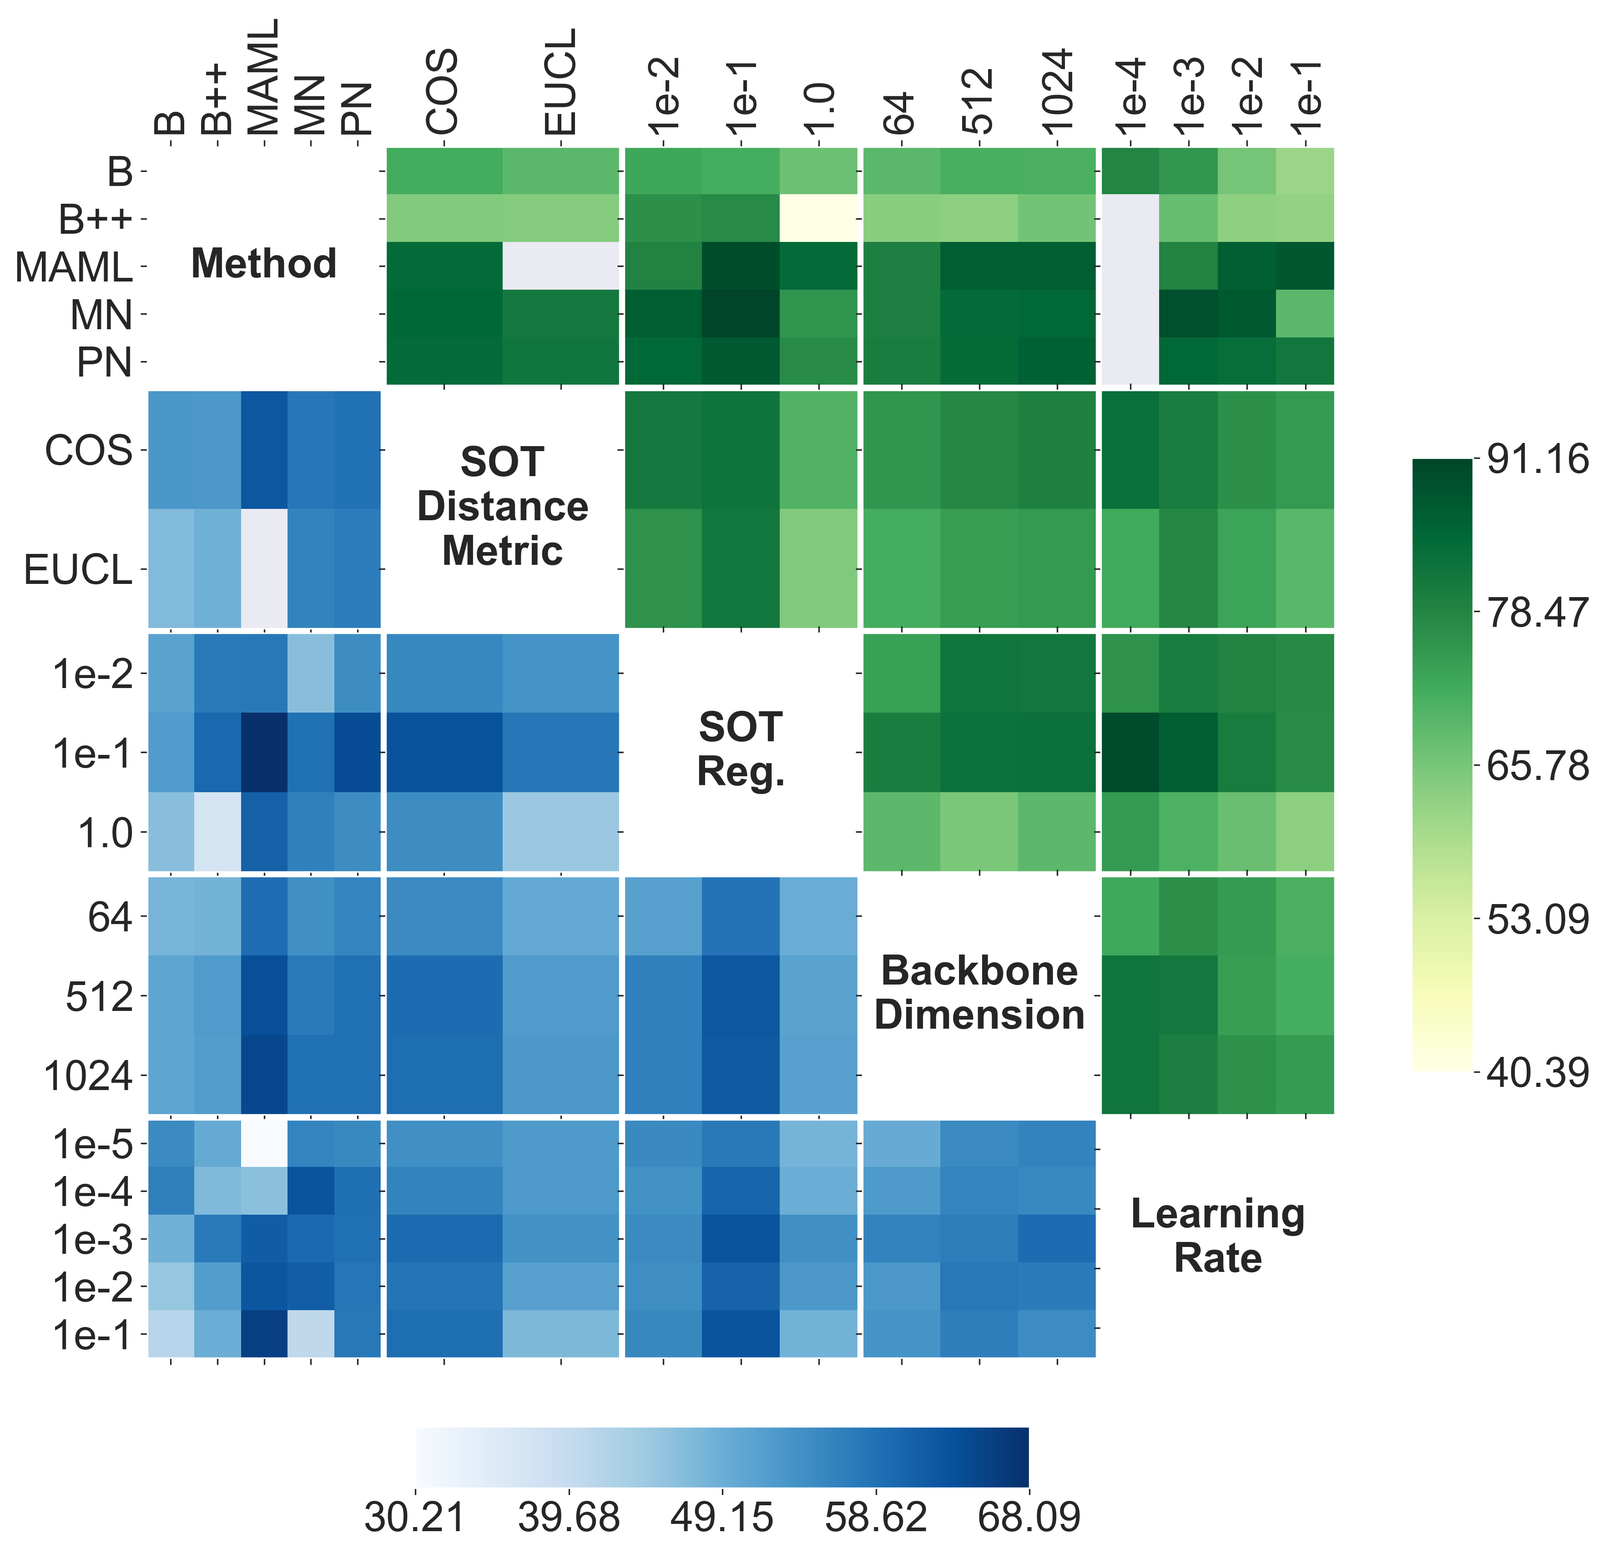
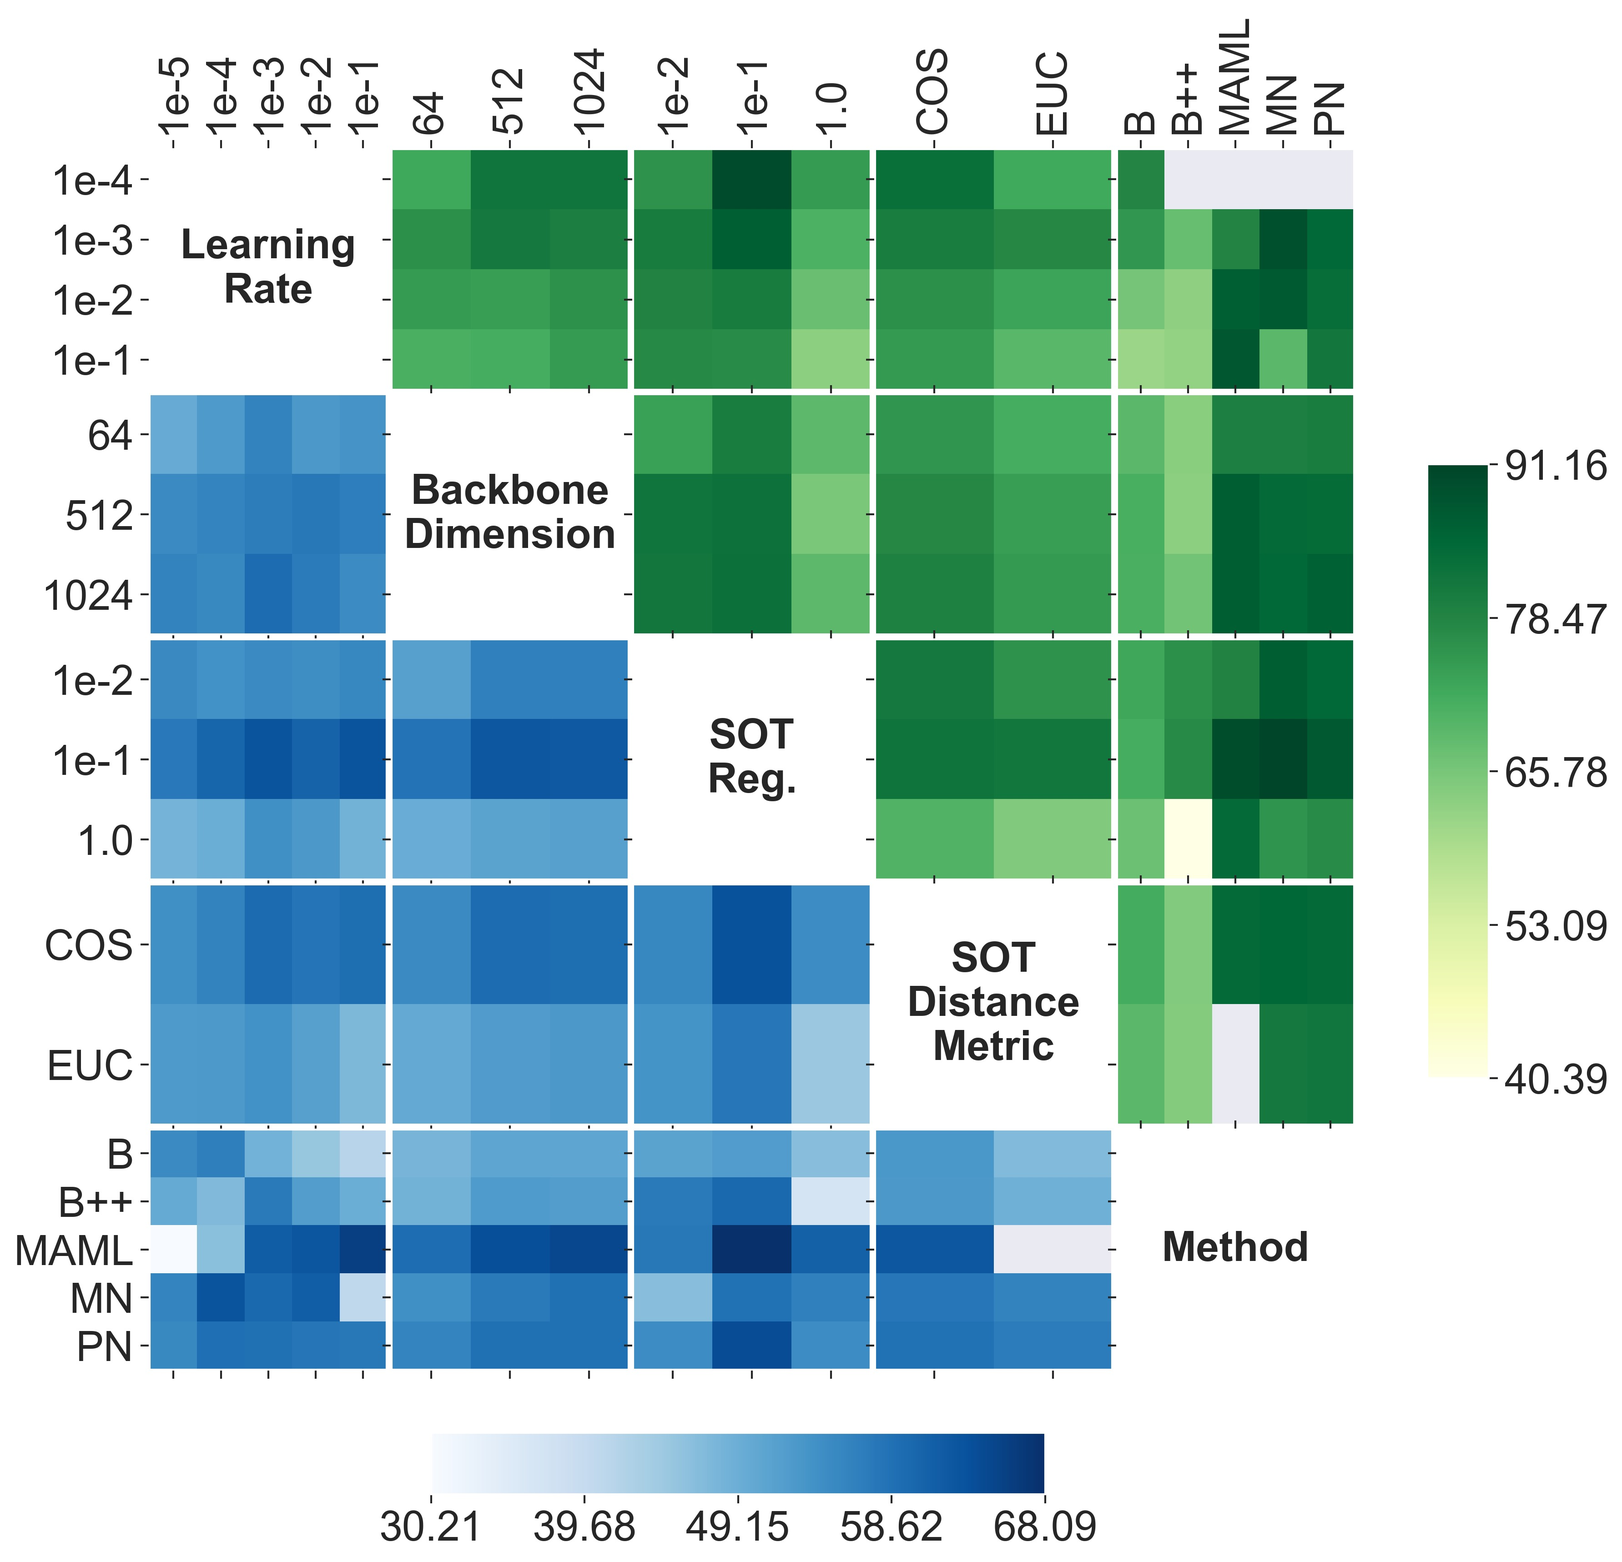
feat(*) final brush over report

diff --git a/report/sections/results.tex b/report/sections/results.tex
@@ -1,37 +1,41 @@
 \section{Results}
 
+\input{tables/tuned-benchmark.tex}
 
 Figure~\ref{fig:benchmark-perf} and Table \ref{tab:tuned-benchmark} shows the test accuracies for each method with and without the SOT module on both datasets.
 
 % Without SOT:
 % TM: (91.3 + 81.7 + 89.8 + 85.3 + 90)/5 = 87.6
 % SP: (69.1 + 55.2 + 61.5 + 65.4 + 64.3)/5 = 63.1
-Models without the SOT module reach an average accuracy of 88\% on the \texttt{TM} dataset and 63\% on the \texttt{SP} dataset. These results generally show that the models are capable of learning from few samples, improving significantly over the random baseline of 20\% accuracy. Peak performances in this group are achieved by \texttt{B} on both datasets, with 91\% and 69\% accuracy, respectively. The results indicate that \texttt{SP} is more challenging than the \texttt{TM} dataset. 
+Models without the SOT module reach an average accuracy of 88\% on the \texttt{TM} dataset and 63\% on the \texttt{SP} dataset. These results generally show that the models are capable of learning from few samples, improving significantly over the random baseline of 20\% accuracy. Peak performances in this group are achieved by \texttt{B} on both datasets, with 91\% and 69\% accuracy, respectively.
 
 % With SOT:
-% TM: (86.4 + 89.8 + 90.9 + 93.5 + 91.6)/5 = 90.4
-% SP: (56.7 + 70.9 + 67.2 + 68.4 + 66.6)/5 = 65.9
-Models incorporating the SOT module exhibit enhanced accuracy, achieving 90\% and 66\% average accuracy on the \texttt{TM} and \texttt{SP} dataset. While \texttt{MN}, \texttt{PN}, \texttt{MAML}, and \texttt{B++} show improved performance on \texttt{SP} when using SOT, \texttt{B} experiences a decline. Notably, \texttt{MN} on \texttt{SP} demonstrates the most significant gain with SOT: from a lowest accuracy of 55\% to the highest at 71\%. The addition of the SOT module increases the peak accuracy by 1.8 percentage points on \texttt{SP} and 2.2 on \texttt{TM}.
+% TM: (91.9 + 89.8 + 90.9 + 93.5 + 91.6)/5 = 90.4
+% SP: (64.7 + 64.5 + 67.2 + 70.0 + 66.6)/5 = 66.6
+Models incorporating the SOT module exhibit enhanced accuracy, achieving 90\% and 67\% average accuracy on the \texttt{TM} and \texttt{SP} dataset. All models benefit from the inclusion of the SOT feature transform module, except for \texttt{B} on \texttt{SP}. 
 
-\textbf{Hyperparameter Ablation.} Figure~\ref{fig:hparams-swissprot-grid} shows the pair-wise interactions between all tuned hyperparameters. We also add a column for the methods to study how they react to certain hyper-parameters. 
-
-The plots indicate a clear trend across all methods regarding the SOT hype-parameters: We find that using $\delta = cosine$ as a distance metric and regularisation with $\gamma = 0.1$ consistently yields the best performance. 
-Furthermore, we find that all methods generally prefer lower learning rates of $\lambda=0.001$, especially in combination with a larger hidden dimension in the layers of the backbone. Finally, the plot reveals that \texttt{MN}, \texttt{PN}, and \texttt{MAML} are more robust to the choice of hyperparameters, yielding higher mean accuracies across tuning runs, while  \texttt{B++} was found especially sensitive. Despite being the best performing method on \texttt{SP}, its mean accuracy is lower in the tuning runs.
+Notably, \texttt{MN} on \texttt{SP} demonstrates the most significant gain with SOT: from a lowest accuracy of 55\% to the highest at 70\%. The addition of the SOT module increases the peak accuracy by 0.9 percentage points on \texttt{SP} and 2.2 on \texttt{TM}.
 
 \begin{figure}[h!]
     \centering
-    \includegraphics[width=1\columnwidth]{figures/hparams-interaction.png}
-    \caption{\textbf{Hyperparameter Ablation.} Test accuracies on the \texttt{SP} dataset for all pairs of hyperparameter settings.}
+    \includegraphics[width=1\columnwidth]{figures/hparams-interaction-combined.png}
+    \caption{\textbf{Hyperparameter Ablation.} Average test accuracies on the \texttt{SP} dataset for all pairs of hyperparameter settings for \texttt{SP} in blue (bottom left) and \texttt{TM} in green (top right).}
     \label{fig:hparams-swissprot-grid}
 \end{figure}
 
-\input{tables/tuned-benchmark.tex}
+\textbf{Hyperparameter Ablation.} Figure~\ref{fig:hparams-swissprot-grid} shows the pair-wise interactions between all tuned hyperparameters for both datasets separately. We add a column for the methods to study how they react to certain hyperparameters configurations. 
 
-\textbf{Way-Shot Analysis.} Figure~\ref{fig:way-shot} illustrates \texttt{PN}'s way-shot analysis on the TM dataset, comparing scenarios with and without the SOT module. The left subplot depicts test accuracy versus the number of classes (ways), while the right subplot relates accuracy to the number of samples per class (shots). In both SOT and non-SOT contexts, a consistent trend emerges: accuracy diminishes linearly with more classes and grows with additional samples per class up to some limit. Notably, exceeding five samples per class yields no substantial accuracy gains. The model's performance with the SOT module is consistently inferior for higher numbers of classes and samples.
+The plots indicate a clear trend across all methods and datasets regarding the SOT hyperparameters: We find that using the cosine distance metric and regularisation with $\gamma = 0.1$ consistently yields the best performance. 
+Furthermore, we find that the choice of the learning rate has a significant impact on the performance of all methods. \texttt{B}, \texttt{B++} and \texttt{MN} generally prefer lower learning rates of $\lambda=1e^{-4}$, while \texttt{MAML} prefers high learning rates of $\lambda=1e^{-1}$. \texttt{PN}'s performance is robust to the choice of learning rate showing no significant variation across tuning runs.
+Finally, the plot reveals that \texttt{MN}, \texttt{PN}, and \texttt{MAML} are generally more robust to the choice of hyperparameters, yielding higher mean accuracies across tuning runs, while  \texttt{B++} was found especially sensitive. Despite being the best performing method on \texttt{SP}, its mean accuracy is lower in the tuning runs.
+
+
+
+\textbf{Way-Shot Analysis.} Figure~\ref{fig:way-shot} illustrates \texttt{PN}'s way-shot analysis on the TM dataset, comparing scenarios with and without the SOT module. The left subplot depicts test accuracy versus the number of classes (ways), while the right subplot relates accuracy to the number of samples per class (shots). In both SOT and non-SOT contexts, a consistent trend emerges: accuracy diminishes linearly with more classes and grows with additional samples per class up to some limit. Notably, exceeding ten samples per class yields no substantial accuracy gains. As expected, the model's performance with the SOT module is consistently higher for higher numbers of classes and samples.
 
 \begin{figure}[h!]
     \centering
-    \includegraphics[width=1\columnwidth]{figures/way-shot.pdf}
+    \includegraphics[width=1\columnwidth]{figures/way-shot.png}
     \caption{\textbf{Way-Shot Analysis.} Test accuracy of \texttt{PN} on the \texttt{TM} dataset with and without the SOT module in various 
     few-shot learning settings for fixed n-way (left) and n-shot (right). Individual points represent a single experiment. We show the regression line with a 95\% confidence interval.}
     \label{fig:way-shot}

diff --git a/report/sections/discussion.tex b/report/sections/discussion.tex
@@ -1,16 +1,10 @@
 \section{Discussion}
 
 % General Benchmark
-The collective analysis of average performance across both datasets underscores the competence of all methods in extracting knowledge from biomedical datasets with limited number of samples per class. Notably, the \texttt{TM} dataset seems to be more amenable to few-shot learning, with all methods achieving an average accuracy of at least 80\%. In contrast, the \texttt{SP} dataset poses a more challenging task, with all methods averaging below 70\% accuracy. This discrepancy may stem from variations in the quality of extracted embeddings and potential disparities in the the overlap of classes in the training and test sets observed in the \texttt{TM} dataset.
+Our analysis underscores the competence of all methods in extracting knowledge from few-shot biomedical datasets. Notably, the \texttt{TM} dataset seems to be more amenable to few-shot learning, with all methods achieving an average accuracy of at least 80\%. In contrast, the \texttt{SP} dataset poses a more challenging task, with the highest performance achieved being 70\% accuracy. This discrepancy may stem from variations in the quality of the features or the potential disparities in the the overlap of classes in the training and test sets observed in the \texttt{TM} dataset.
 
-Examining the \texttt{SP} dataset, an intriguing pattern emerges: the incorporation of the SOT module enhances the performance of all methods except for \texttt{B}, where performance sees a notable decline of almost 20\%. This stark drop may be attributed to the inherent simplicity of model \texttt{B}, struggling to grapple with the added complexity introduced by the SOT module.  Remarkably, \texttt{B++} experiences a substantial 17\% performance boost with the SOT module, marking the most significant improvement among all methods. This result is surprising given the minimal distinctions between the two methods. Notably, \texttt{B++} normalizes embeddings before the final classification layer, with normalized weights. 
-Additionally, it elevates the temperature of the softmax function, fostering greater confidence in model predictions.
+% Hyperparameter Ablation
+Across almost methods and few-shot settings examined, the SOT module consistently enhances performance. This is in line with the claims and empirical findings of the original paper, making SOT a model-agnostic plug-in module with potential to improve performance in a wide range of few-shot learning tasks with little added computational overhead.
 
-Turning attention to the \texttt{TM} dataset, the impact of the SOT module appears marginal for all methods except \texttt{MT}, 
-where performance sees a modest 5\% increase. Plausible reasoning suggests that, on \texttt{TM}, 
-methods already achieve a high average performance, limiting the potential for substantial enhancement through the SOT module.
-
-% Way-Shot Analysis
-The way-shot analysis demonstrates clear trends: With increasing number of classes to distinguish, performance decreases from approximately 95\% with 2 classes to around 80\% with 10 classes. Notably, the challenge intensifies, widening the confidence interval range. This underscores the increasing importance of support vectors as class count rises.
-
-Examining the second plot of Figure \ref{fig:way-shot}, an intriguing observation emerges:  possessing more than 5 support vectors doesn't necessarily enhance the model's performance.  Importantly, the figure indicates that, across varying class and support vector counts, the \texttt{MN} with SOT module tends to exhibit marginally lower performance on average compared  to its counterpart without the module. 
+% Hyperparameter Ablation
+Our study shows conclusive evidence that the SOT module performs best in few-shot classification tasks for a regularisation parameters $\gamma = 0.1$ and using the cosine distance metric. However, careful tuning of other hyper-parameters, such as the learning rate or the size of the hidden dimension of the backbone network, are crucial to achieve peak performance and vary depending on the method and dataset.

diff --git a/report/sections/abstract.tex b/report/sections/abstract.tex
@@ -1,3 +1,3 @@
 \begin{abstract}
-    Our study rigorously evaluates prominent few-shot learning algorithms, including Baseline, Matching Networks, Prototypical Networks, and MAML, in two few-shot classification tasks based on the Tabula Muris and SwissProt datasets. All algorithms demonstrate substantial efficacy, with the best performing algorithms achieving 69.1\% and 91.3\% accuracy on the SwissProt and Tabula Muris datasets, respectively. Additionally, we found that incorporating the Self-Optimal Transport (SOT) feature transform module enhances performance in most settings with minimal computational overhead, increasing the best performance to 70.9\% (+1,8) and 93.5\% (+2,2) on the \nobreak{SwissProt} and Tabula Muris datasets, respectively. \textit{The code and experiments are available on \href{https://github.com/mikasenghaas/few-shot-benchmark}{GitHub} and \href{https://wandb.ai/metameta-learners/few-shot-benchmark}{W\&B}.}
+    Our study rigorously evaluates prominent few-shot learning algorithms, including Baseline, Matching Networks, Prototypical Networks, and MAML, in two few-shot classification tasks based on the Tabula Muris and SwissProt datasets. All algorithms demonstrate substantial efficacy, with the best performing algorithms achieving 69.1\% and 91.3\% accuracy on the SwissProt and Tabula Muris datasets, respectively. Additionally, we found that incorporating the Self-Optimal Transport (SOT) feature transform module enhances performance in most settings with minimal computational overhead, increasing the best performance to 70.0\% (+0.9) and 93.5\% (+2,2) on the \nobreak{SwissProt} and Tabula Muris datasets, respectively. \textit{The code and experiments are available on \href{https://github.com/mikasenghaas/few-shot-benchmark}{GitHub} and \href{https://wandb.ai/metameta-learners/few-shot-benchmark}{W\&B}.}
 \end{abstract}

diff --git a/report/sections/experiments.tex b/report/sections/experiments.tex
@@ -14,8 +14,7 @@ The network has two hidden layers, with hidden dimensions being tuned for each e
 We implement early stopping after five epochs of no improvement in validation accuracy. 
 
 % Hyperparameter tuning
-\textbf{Tuning.} Hyperparameter tuning is performed for all models that include the SOT module, unless specified otherwise. Tuning includes the learning rate ($\lambda = \{0.1, 0.01, 0.001\}$) for all methods as well as the backbone's hidden dimension size ($\kappa = \{64, 512, 1024\}$). For models including the SOT module, we adapt the hyperparameter grid of \citeauthor{sot}, namely the regularisation parameter ($\gamma = \{1.0, 0.1, 0.01\}$) and the choice of distance metric ($\delta = \{cosine, euclidean\}$). 
-The model demonstrating the best performance on the validation split is evaluated on the test split and reported.
+\textbf{Tuning.} Hyperparameter tuning is performed for all models that include the SOT module, unless specified otherwise. Tuning includes the learning rate \nobreak{($\lambda = 1e^{-x} \forall\ x \in [-5, -1]$)} for all methods as well as the backbone's hidden dimension size ($\kappa = \{64, 512, 1024\}$). For models including the SOT module, we adapt the hyperparameter grid of \citeauthor{sot}, namely the regularisation parameter ($\gamma = \{1.0, 0.1, 0.01\}$) and the choice of distance metric ($\delta = \{cosine, euclidean\}$). Whenever it was clear, that further grid search would not yield better results, we stopped the tuning process. The model demonstrating the best performance on the validation split is evaluated on the test split and reported.
 
 % Evaluation
 \textbf{Evaluation.} A model performance's is reported through the mean and 95\% confidence interval of the few-shot accuracy, calculated over 600 episodes with each episode utilising five query samples per class.

diff --git a/report/tables/tuned-benchmark.tex b/report/tables/tuned-benchmark.tex
@@ -11,14 +11,14 @@
 \multirow[c]{5}{*}{TM} & B & $\mathbf{91.3 \pm 0.6}$ & $91.9 \pm 0.7$ & \bfseries \color{teal} 0.6 \\
  & B++ & $81.7 \pm 0.9$ & $89.8 \pm 0.7$ & \bfseries \color{teal} 8.1 \\
  & MAML & $89.8 \pm 0.7$ & $90.9 \pm 0.6$ & \bfseries \color{teal} 1.1 \\
- & MT & $85.3 \pm 0.8$ & $\mathbf{93.5 \pm 0.6}$ & \bfseries \color{teal} 8.2 \\
- & PT & $90.0 \pm 0.7$ & $91.6 \pm 0.6$ & \bfseries \color{teal} 1.6 \\
+ & MN & $85.3 \pm 0.8$ & $\mathbf{93.5 \pm 0.6}$ & \bfseries \color{teal} 8.2 \\
+ & PN & $90.0 \pm 0.7$ & $91.6 \pm 0.6$ & \bfseries \color{teal} 1.6 \\
 \midrule
 \multirow[c]{5}{*}{SP} & B & $\mathbf{69.1 \pm 0.7}$ & $64.7 \pm 0.9$ & \color{red} -4.4 \\
  & B++ & $55.2 \pm 0.7$ & $64.5 \pm 0.8$ & \bfseries \color{teal} 9.3 \\
  & MAML & $61.5 \pm 0.7$ & $67.2 \pm 0.7$ & \bfseries \color{teal} 5.7 \\
- & MT & $65.4 \pm 0.7$ & $\mathbf{70.0 \pm 0.7}$ & \bfseries \color{teal} 4.6 \\
- & PT & $64.3 \pm 0.7$ & $66.6 \pm 0.8$ & \bfseries \color{teal} 2.3 \\
+ & MN & $65.4 \pm 0.7$ & $\mathbf{70.0 \pm 0.7}$ & \bfseries \color{teal} 4.6 \\
+ & PN & $64.3 \pm 0.7$ & $66.6 \pm 0.8$ & \bfseries \color{teal} 2.3 \\
 \bottomrule
 \end{tabular}
 \end{table}

diff --git a/report/sections/conclusion.tex b/report/sections/conclusion.tex
@@ -1,4 +1,4 @@
 \section{Conclusion}
 
-In summary, we demonstrate the effectiveness of both transfer and meta-learning algorithm for learning effective feature representations for classification tasks with limited data in the biomedical domain. 
-Notably, employing the transductive SOT feature transform combined with meta-learners emerged as a viable approach, especially Matching Networks' performance improved with minimal computational overhead. However, as some methods show decreased performance after the inclusion of SOT, the adaption of the module should be treated like a hyper-parameter tuned to the specific task at hand.
+In summary, we demonstrate the effectiveness of both transfer and meta-learning algorithms for learning effective feature representations for classification tasks with limited data in the biomedical domain. 
+Notably, employing the transductive SOT feature transform combined emerged as an effective approach, consistently improving performance across models, datasets and few-shot settings. Extensive hyperparameter tuning is crucial to achieve optimal performance.

diff --git a/report/sections/appendix.tex b/report/sections/appendix.tex
@@ -1,5 +1,7 @@
 \section{Appendix}
 
+\subsection{Dataset Statistics}
+
 \begin{table}[h]
     \centering
     \caption{\textbf{Dataset Statistics.} The Table shows the number of samples and targets in each split of the two datasets.}
@@ -21,3 +23,12 @@
         \bottomrule
     \end{tabular}
 \end{table}
+
+\subsection{Way-Shot Analysis Heatmap}
+
+\begin{figure}[h!]
+    \centering
+    \includegraphics[width=1\columnwidth]{figures/way-shot-heatmap.png}
+    \caption{\textbf{Way-Shot Analysis Heatmap.} Test accuracy of \texttt{PN} with SOT on the \texttt{TM} for varying numbers of classes and samples per class (left). The right plot shows the difference to the same method without SOT.}
+    \label{fig:way-shot-heatmap}
+\end{figure}

diff --git a/report/main.tex b/report/main.tex
@@ -41,7 +41,7 @@
 
 \begin{figure*}[!]
     \centering
-    \includegraphics[width=0.9\linewidth]{./figures/benchmark-method-perf.pdf}
+    \includegraphics[width=0.9\linewidth]{./figures/benchmark-method-perf.png}
     \caption{\textbf{Benchmark Results.} Test accuracy of all methods on \texttt{TM} (left) and \texttt{SP} (right) in the 5-way-5-shot setting. The plot shows the mean accuracy over 600 episodes and the 95\% confidence interval.}
     \label{fig:benchmark-perf}
 \end{figure*}
@@ -57,6 +57,8 @@
 \newpage
 \input{sections/appendix.tex}
 
+\vfill
+\break
 \bibliography{main}
 \bibliographystyle{cs502}
 
